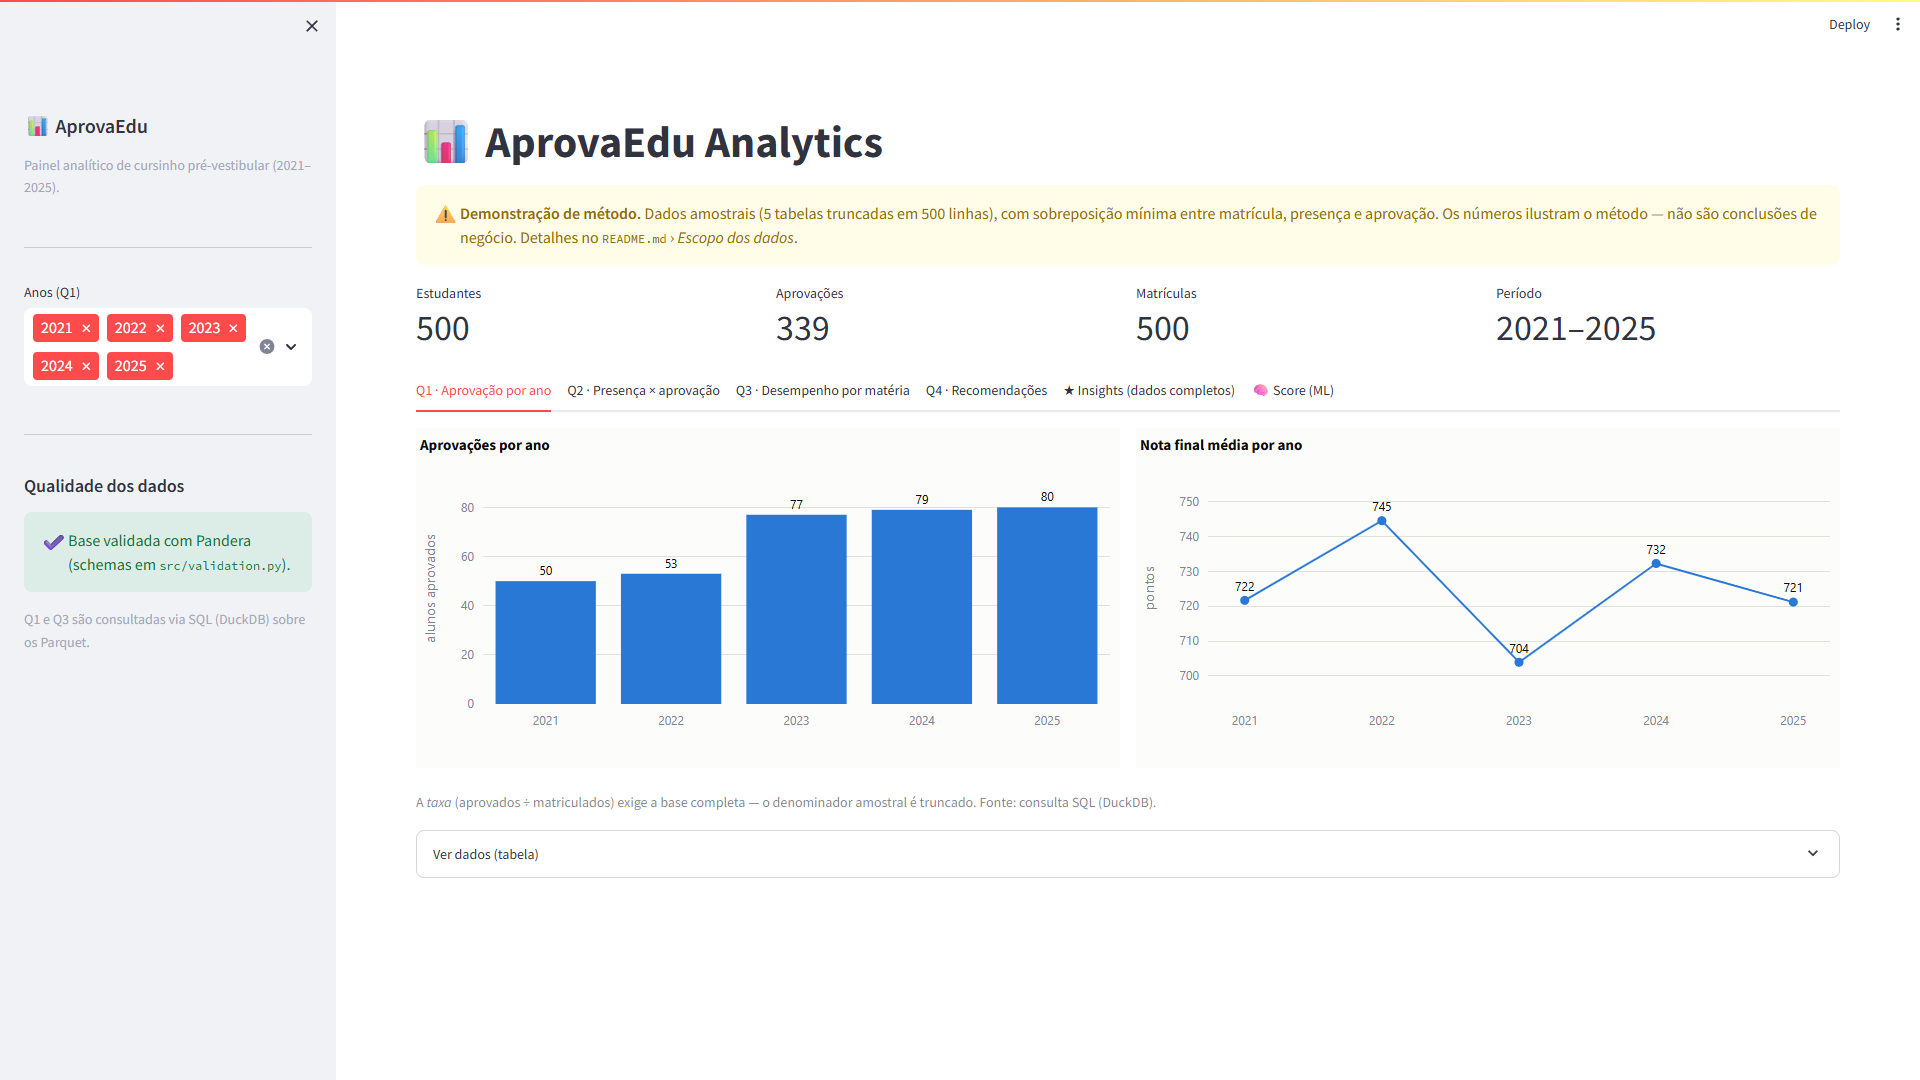
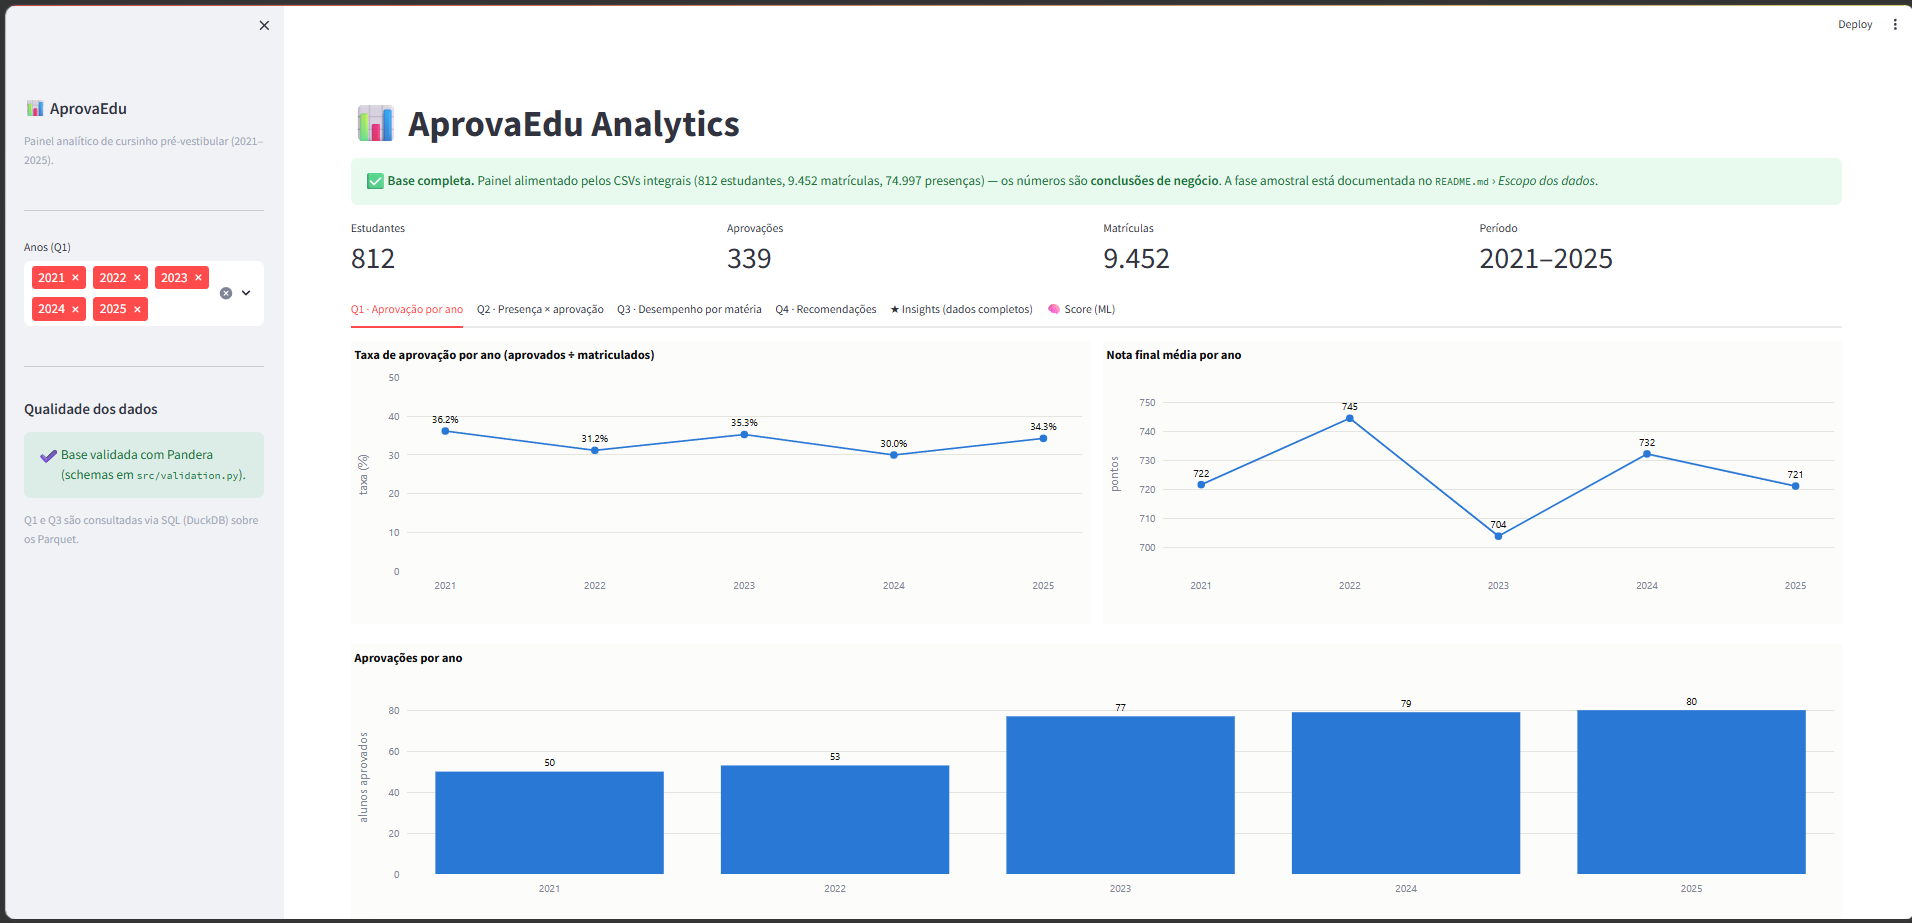
docs: README em duas fases e demonstração do dashboard na base completa

diff --git a/README.md b/README.md
@@ -18,7 +18,7 @@ Projeto de análise de dados educacionais desenvolvido como solução para o des
 
 ## 🖥 Demonstração — dashboard
 
-Painel interativo (Streamlit + Plotly) com as 4 análises, os insights complementares e o score de propensão. Para rodar, veja *Como Executar* (ou `docker compose up --build`) e acesse http://localhost:8501.
+Painel interativo (Streamlit + Plotly) com as 4 análises, os insights complementares e o score de propensão — os textos e a taxa de aprovação se adaptam à fonte carregada (amostra ou base completa). Para rodar, veja *Como Executar* (ou `docker compose up --build`) e acesse http://localhost:8501.
 
 **Visão geral e análises obrigatórias**
 
@@ -31,31 +31,26 @@ Painel interativo (Streamlit + Plotly) com as 4 análises, os insights complemen
 ![Insights sobre tabelas completas](docs/screenshots/04-insights.png)
 ![Score de propensão à aprovação](docs/screenshots/05-score-ml.png)
 
-## ⚠ Escopo dos dados (leia antes de interpretar os resultados)
+## 📦 Escopo dos dados — duas fases
 
-O arquivo fornecido `data/raw/base_pre_vestibular_dicionario_amostras.xlsx` é um **dicionário de dados + amostra** — **não** a base completa. Comparando o número de linhas de cada aba com o total declarado na própria aba `Resumo` do dicionário:
+O projeto foi desenvolvido em **duas fases**, e isso estrutura os entregáveis:
 
-| Tabela          | Linhas no XLSX | Base completa (aba `Resumo`) | Situação           |
-| --------------- | -------------: | ----------------------------: | -------------------- |
-| professores     |             35 |                            35 | ✅ Completa          |
-| ofertas_curso   |            220 |                           220 | ✅ Completa          |
-| simulados       |            165 |                           165 | ✅ Completa          |
-| aprovacoes      |            354 |                           354 | ✅ Completa          |
-| estudantes      |            500 |                           812 | ✂ Truncada em 500 |
-| matriculas      |            500 |                         9.452 | ✂ Truncada em 500 |
-| aulas           |            500 |                         2.418 | ✂ Truncada em 500 |
-| resultados_sim  |            500 |                        21.510 | ✂ Truncada em 500 |
-| presencas_aulas |            500 |                        74.997 | ✂ Truncada em 500 |
+**Fase 1 — amostra.** O material inicial era o XLSX `base_pre_vestibular_dicionario_amostras.xlsx` (dicionário + amostra), com as 5 tabelas maiores **truncadas nas primeiras 500 linhas** — fato **verificado** (contagem de linhas × totais da aba `Resumo`) e documentado. Com o corte por ordem de ID, os cruzamentos entre matrícula, presença e aprovação tinham sobreposição mínima (apenas **1 aluno** com os três dados), então as análises dessa fase foram entregues como **demonstração de método**, com as limitações declaradas (notebooks `01`–`04` e [`reports/relatorio_amostra.md`](reports/relatorio_amostra.md)).
 
-Pontos importantes:
+**Fase 2 — base completa.** Os **CSVs integrais** foram disponibilizados depois: 812 estudantes, 9.452 matrículas, 21.510 resultados e 74.997 presenças — totais idênticos aos declarados no dicionário e **integridade referencial de 100%**. O mesmo pipeline rodou **sem mudança de método**, e as análises viraram **conclusões de negócio** (notebook `05` e [`reports/relatorio_final.md`](reports/relatorio_final.md)).
 
-1. **A limitação está no arquivo, não no código.** O `extract.py` lê **todas** as linhas presentes em cada aba (sem `nrows`/`skiprows`); ele extrai 500 porque 500 é o que o arquivo contém. Nenhuma mudança no código faz surgir mais dados.
-2. **É truncamento por ordem, não amostragem aleatória.** Nas tabelas cortadas, os IDs são exatamente os primeiros sequenciais (`M0000001…M0000500`, `R00000001…R00000500`, …). Por isso as tabelas cobrem fatias de entidades quase disjuntas.
-3. **Isso é por design.** A aba `Resumo` declara em cada linha: *"A planilha traz amostra; o CSV contém a base completa"*. A base completa é distribuída **à parte, como CSVs**.
+### Da amostra à base completa — o que mudou
 
-**Consequência para as análises:** os cruzamentos entre matrícula, presença e aprovação têm sobreposição mínima (apenas **1 aluno** possui os três dados). Portanto, o notebook `02_analise.ipynb` entrega uma **demonstração de método**, e não conclusões de negócio.
+| Dimensão | Fase 1 (amostra) | Fase 2 (base completa) |
+|---|---|---|
+| Alunos com matrícula + presença + aprovação | 1 | **306 (todos os aprovados)** |
+| Q1 · taxa de aprovação | incalculável (denominador truncado) | **30–36% ao ano, estável** |
+| Q2 · presença × aprovação | "não afirmável" (n ínfimo) | **sem associação (r≈0)** — a cautela da Fase 1 se confirmou |
+| Q3 · matérias | 2 visíveis | **10, desempenho homogêneo (60,7–62,0)** |
+| Score ML (AUC) | ~0,51 (acaso) | **~0,61**; faixa Alta com 62% de aprovação real |
+| Validação (Pandera) | regras passando | **capturou outlier novo** (nota_diagnostico > 100) |
 
-**Como obter resultados válidos:** basta colocar os CSVs da base completa em `data/` e reexecutar o pipeline — todo o código (`extract` → `cleaning` → `transform`) e os notebooks já estão prontos para recebê-los.
+> O ponto central: **nenhuma linha de método mudou entre as fases** — só a fonte dos dados. A honestidade da Fase 1 (declarar o que a amostra não sustentava) foi validada pela Fase 2: a diferença de presença que parecia existir na amostra era ruído.
 
 ## 📁 Estrutura do Projeto
 
@@ -75,15 +70,17 @@ src/
   features.py   # engenharia de atributos por aluno (para o modelo)
   model.py      # pipeline do score de propensão (scikit-learn)
 notebooks/
-  01_tratamento.ipynb   # extração, perfilamento e tratamento (documentado)
-  02_analise.ipynb      # as 4 análises obrigatórias
-  03_insights.ipynb     # insights complementares sobre as tabelas completas
-  04_modelo.ipynb       # score de propensão à aprovação (scikit-learn)
+  01_tratamento.ipynb        # Fase 1: extração, perfilamento e tratamento
+  02_analise.ipynb           # Fase 1: as 4 análises (demonstração de método)
+  03_insights.ipynb          # Fase 1: insights sobre as tabelas já completas
+  04_modelo.ipynb            # Fase 1: score de propensão (pipeline de ML)
+  05_analise_completa.ipynb  # Fase 2: análise definitiva na base completa
 dashboard/
-  app.py        # dashboard interativo (Streamlit + Plotly)
+  app.py        # dashboard interativo (Streamlit + Plotly); detecta a fonte dos dados
 reports/
-  relatorio_final.md    # relatório final (respostas + insights)
-  img/          # gráficos usados no relatório
+  relatorio_final.md    # relatório definitivo (base completa)
+  relatorio_amostra.md  # registro da fase amostral (Fase 1)
+  img/          # gráficos usados nos relatórios
 docs/
   screenshots/  # prints do dashboard (usados na seção Demonstração)
 ```
@@ -102,11 +99,10 @@ pip install -r requirements.txt
 
 ### Dados (obrigatório)
 
-O XLSX de origem **não é versionado** — dado bruto não deve ir para o repositório (boa prática), e a base é distribuída à parte. Antes de rodar o pipeline, coloque o arquivo de origem em `data/raw/`:
+Os dados brutos **não são versionados** (boa prática) — são distribuídos à parte. Coloque em `data/raw/` **uma** das fontes; o `extract.py` detecta automaticamente a melhor disponível:
 
-```
-data/raw/base_pre_vestibular_dicionario_amostras.xlsx
-```
+- **Base completa (preferida):** os 9 CSVs (`professores.csv`, `estudantes.csv`, `ofertas_curso.csv`, `matriculas.csv`, `aprovacoes_vestibular.csv`, `simulados.csv`, `resultados_simulados.csv`, `aulas.csv`, `presencas_aulas.csv`);
+- **Amostra:** o XLSX `base_pre_vestibular_dicionario_amostras.xlsx` (dicionário + amostras).
 
 As pastas `data/processed/` e `data/final/` são criadas automaticamente pelo pipeline.
 
@@ -152,13 +148,13 @@ Documentadas em detalhe em `notebooks/01_tratamento.ipynb` e em `data/final/_rel
 - **Faltantes** → medidas (notas) não são imputadas; categóricas viram `"Não informado"` quando faz sentido de negócio.
 - **Validação (Pandera)** → `src/validation.py` define o "contrato" da base tratada (PKs únicas, faixas numéricas e categorias canônicas); o `transform.py` roda a validação e registra o resultado no relatório.
 - **Camada SQL (DuckDB)** → `src/queries.py` responde às perguntas via SQL sobre os Parquet, como alternativa de modelagem analítica às agregações em Pandas.
-- **Score preditivo (scikit-learn)** → `src/features.py` + `src/model.py` + `notebooks/04_modelo.ipynb` treinam um score de propensão à aprovação (Pipeline com pré-processamento, validação cruzada e interpretação). O alvo é confiável (aprovações é tabela completa); na amostra o sinal fica próximo do acaso — o entregável é o pipeline, pronto para a base completa.
+- **Score preditivo (scikit-learn)** → `src/features.py` + `src/model.py` treinam um score de propensão à aprovação (Pipeline com pré-processamento, validação cruzada e interpretação). Na base completa: AUC ~0,61 e segmentação com poder real (faixa Alta: 62% de aprovação vs 32% na Baixa).
 
 ## ❓ Perguntas obrigatórias
 
-Respondidas em `notebooks/02_analise.ipynb` (como demonstração de método — ver *Escopo dos dados*):
+Respondidas **com conclusões** em `notebooks/05_analise_completa.ipynb` e em [`reports/relatorio_final.md`](reports/relatorio_final.md) (base completa). Resumo:
 
-1. Evolução da taxa de aprovação ao longo dos anos.
-2. Relação entre presença nas aulas e aprovação no vestibular.
-3. Cursos/matérias com melhor desempenho.
-4. Recomendações práticas para a coordenação.
+1. **Taxa de aprovação por ano** — oscila entre ~30% e ~36%, sem tendência: a rede cresceu em matriculados, mas a conversão ficou estável.
+2. **Presença × aprovação** — sem associação (84,0% vs 84,0%; r≈0): presença é uniformemente alta e não discrimina o desfecho.
+3. **Desempenho por matéria** — homogêneo (médias 60,7–62,0 nas 10 matérias); sem matéria-gargalo.
+4. **Recomendações** — incentivar amplitude de matrículas (único fator com sinal: aprovados cursam ~25% mais matérias), usar o score de propensão para priorizar orientação, e padronizar a captura de dados na origem.
